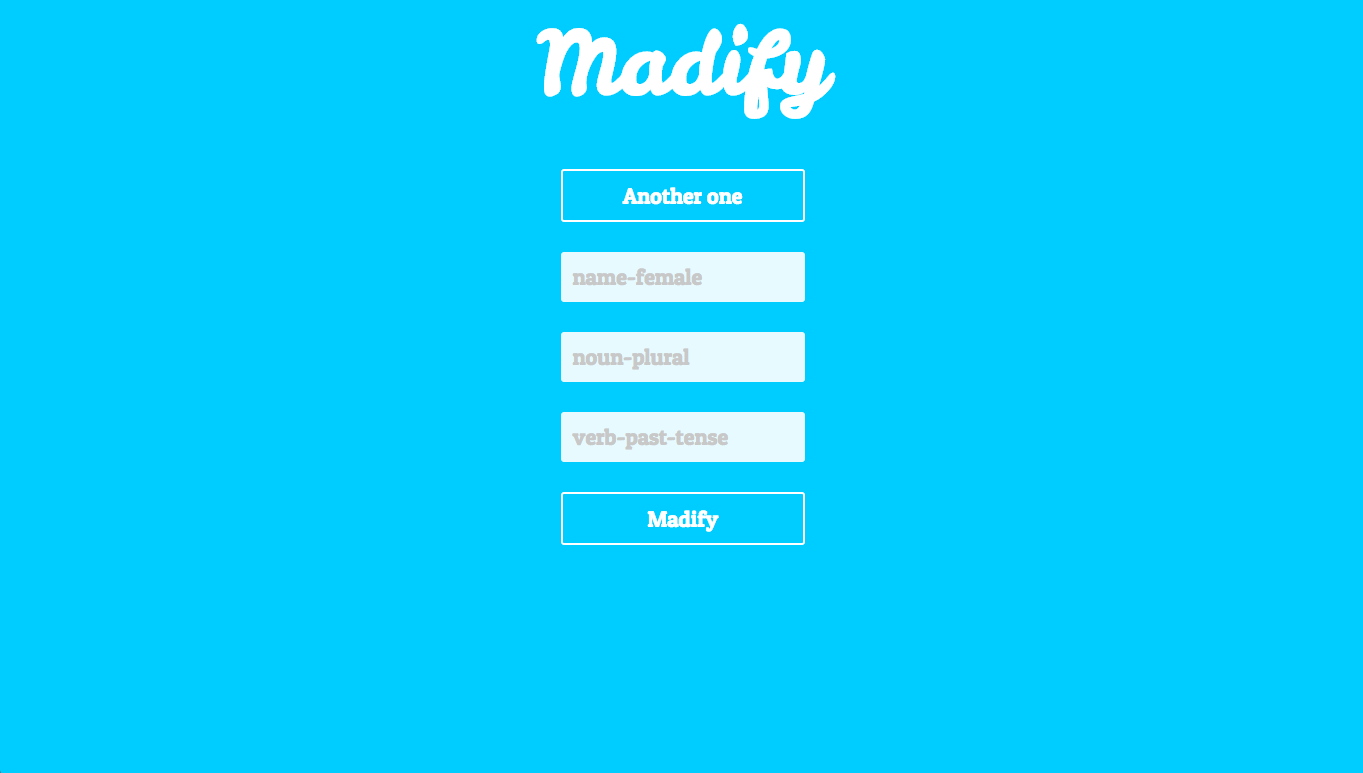
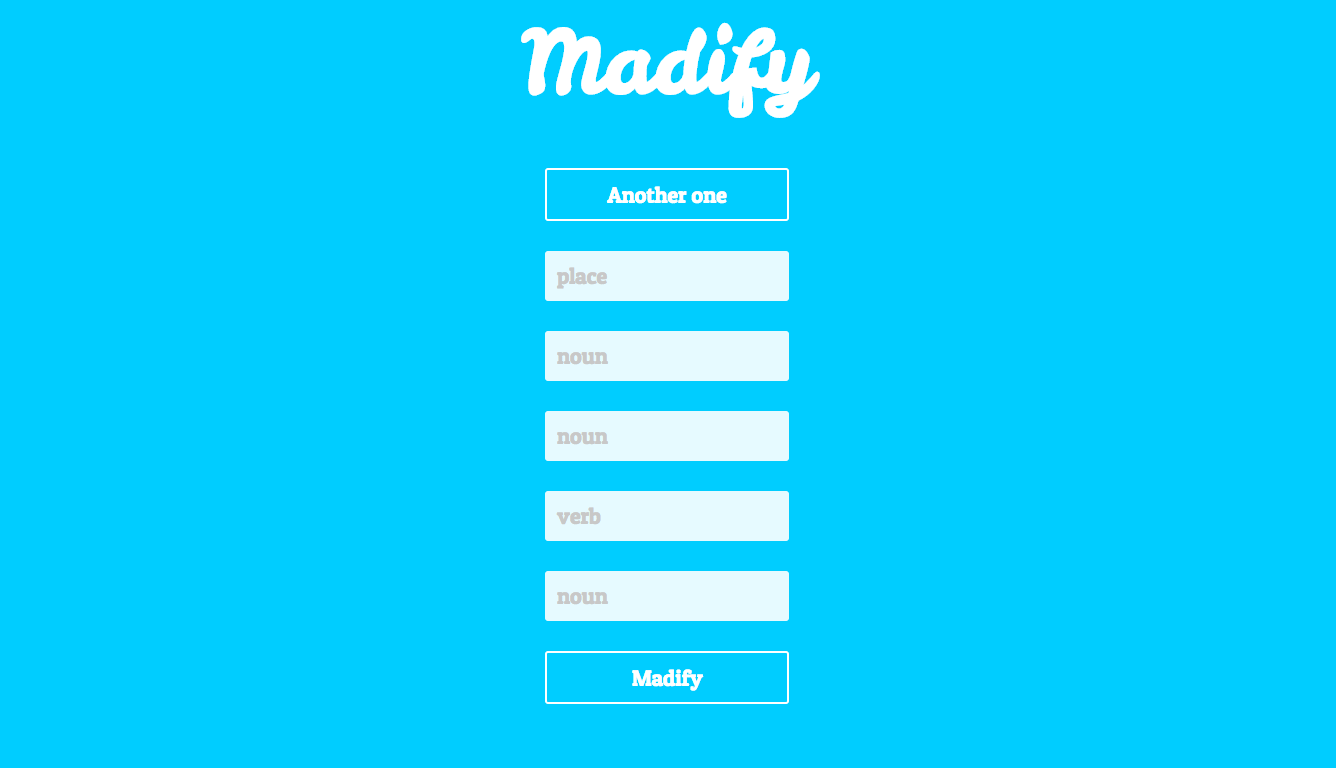
added gifs demonstrating madlibs

diff --git a/README.md b/README.md
@@ -37,9 +37,9 @@ npm test
 
 Open http://localhost:3000 to view the word game in the browser.
 
-[Demo gif]
+![Using Madify](./public/screenvid1.gif)
 
-[Demo gif]
+![Using Madify](./public/screenvid2.gif)
 
 
 ## Built With
